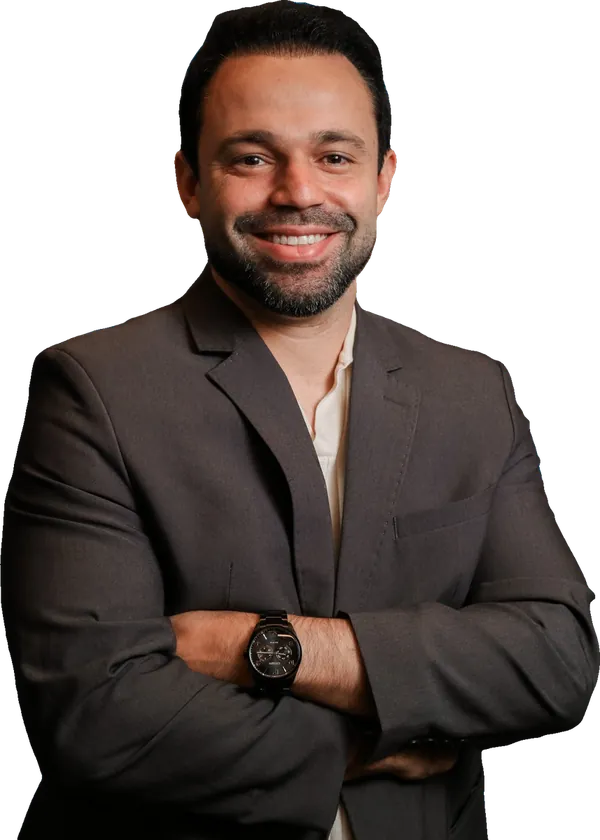
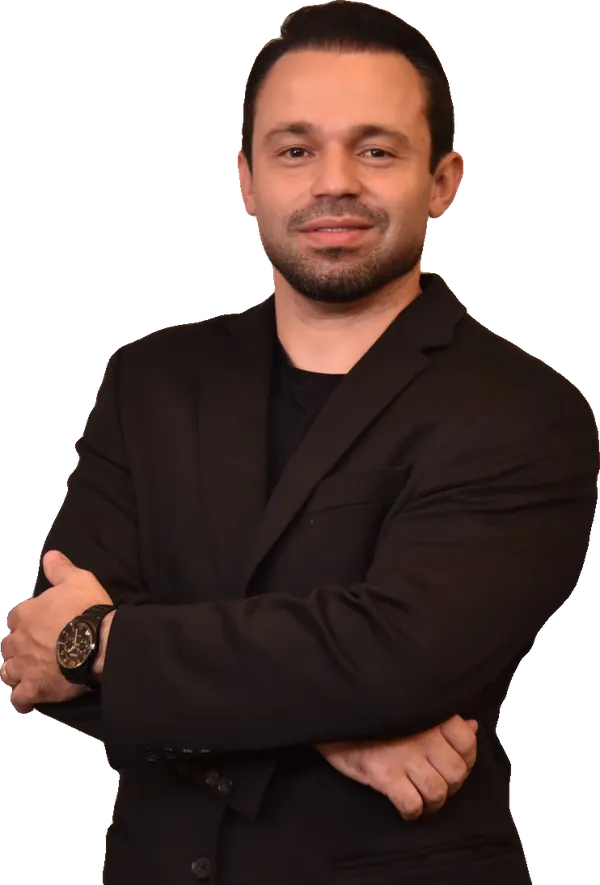
Swap in the new portrait, shrink the hero so all cards show, tighten copy
- New cut-out photo (rembg birefnet-portrait), image size read from the PNG
- Hero 40svh (max 360px) so the CTA and the three cards fit the first screen
- Bio no longer repeats 'Empreendedor'; CTA title is 'Falar comigo'
- Drop the unused avatar assets; prepare-photos also writes the 600px webp

Claude-Session: https://claude.ai/code/session_01SywTXL9oTMcK7PgfKL4JsZ

diff --git a/links/src/style.css b/links/src/style.css
@@ -80,14 +80,14 @@ img { display: block; max-width: 100%; }
 
 .hero__photo {
   position: relative;
-  height: 52vh;
-  height: 52svh;
-  min-height: 380px;
-  max-height: 560px;
+  height: 40vh;
+  height: 40svh;
+  min-height: 300px;
+  max-height: 360px;
   overflow: hidden;
   /* a base do retrato se dissolve no fundo, sem faixa de cor */
-  -webkit-mask-image: linear-gradient(180deg, #000 0%, #000 58%, transparent 100%);
-  mask-image: linear-gradient(180deg, #000 0%, #000 58%, transparent 100%);
+  -webkit-mask-image: linear-gradient(180deg, #000 0%, #000 52%, transparent 84%);
+  mask-image: linear-gradient(180deg, #000 0%, #000 52%, transparent 84%);
 }
 
 /* luz ambiente atrás da cabeça, na mesma linguagem das luzes do fundo */
@@ -95,10 +95,10 @@ img { display: block; max-width: 100%; }
   content: "";
   position: absolute;
   left: 50%;
-  top: 6%;
-  width: 360px;
-  height: 360px;
-  margin-left: -180px;
+  top: 4%;
+  width: 300px;
+  height: 300px;
+  margin-left: -150px;
   border-radius: 50%;
   background: radial-gradient(closest-side, rgba(0, 177, 226, 0.34), rgba(0, 96, 171, 0.14) 60%, rgba(0, 96, 171, 0));
   pointer-events: none;
@@ -107,10 +107,10 @@ img { display: block; max-width: 100%; }
 .hero__photo picture,
 .hero__photo img {
   position: relative;
-  width: min(100%, 440px);
+  width: min(78%, 320px);
   height: auto;
   margin: 0 auto;
-  padding-top: 20px;
+  padding-top: 16px;
 }
 
 .hero__placeholder { position: absolute; left: 50%; bottom: 0; height: 80%; transform: translateX(-50%); color: rgba(255, 255, 255, 0.1); }
@@ -118,7 +118,7 @@ img { display: block; max-width: 100%; }
 .hero__id {
   position: relative;
   z-index: 1;
-  margin-top: -92px;
+  margin-top: -64px;
   padding: 0 20px;
 }
 
@@ -151,6 +151,7 @@ img { display: block; max-width: 100%; }
   font-size: 14px;
   line-height: 1.45;
   color: var(--text-soft);
+  text-wrap: balance;
 }
 
 /* ---------- Cartões ---------- */

diff --git a/links/tools/prepare-photos.py b/links/tools/prepare-photos.py
@@ -5,7 +5,7 @@ Uso (dentro de links/):
     python tools/prepare-photos.py --topo caminho/foto.jpg [--avatar caminho/avatar.jpg]
 
 Gera em src/assets/:
-    foto-topo.png  + foto-topo.webp   (sem fundo, 1200px de altura)
+    foto-topo.png  + foto-topo.webp   (sem fundo, até 1200px de altura) + foto-topo-600.webp
     avatar.png     + avatar.webp      (quadrado 256px; sem --avatar, sai do rosto da foto recortada)
     og.jpg                           (1200x630 para compartilhamento)
 
@@ -86,6 +86,9 @@ def main():
     hero.thumbnail((10_000, 1200), Image.LANCZOS)
     hero.save(ASSETS / "foto-topo.png", optimize=True)
     hero.save(ASSETS / "foto-topo.webp", quality=80, method=6)
+    small = hero.copy()
+    small.thumbnail((600, 10_000), Image.LANCZOS)  # versão leve para celular
+    small.save(ASSETS / "foto-topo-600.webp", quality=80, method=6)
 
     if a.avatar:
         av = Image.open(a.avatar).convert("RGB")
